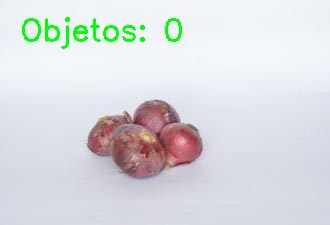
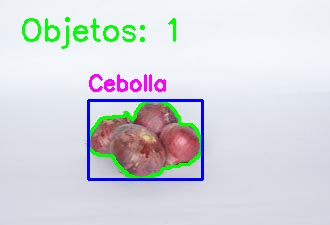
actualizacion3

Changed region(s): [[0.2424, 0.3111, 0.6364, 0.84], [0.4848, 0.0622, 0.5758, 0.1867]]

diff --git a/src/procesamiento/contornos.py b/src/procesamiento/contornos.py
@@ -3,7 +3,9 @@ import numpy as np
 
 
 def detectar_contornos(imagen, umbral):
-
+    """
+    Detecta, caracteriza y clasifica los contornos del umbral sobre la imagen BGR.
+    """
     contornos, _ = cv2.findContours(
         umbral, cv2.RETR_EXTERNAL, cv2.CHAIN_APPROX_SIMPLE
     )
@@ -11,8 +13,9 @@ def detectar_contornos(imagen, umbral):
     imagen_contornos = imagen.copy()
     contador = 0
 
-    # convertir a HSV una sola vez
+    # Convertir espacios de color una sola vez, fuera del loop
     hsv = cv2.cvtColor(imagen, cv2.COLOR_BGR2HSV)
+    rgb = cv2.cvtColor(imagen, cv2.COLOR_BGR2RGB)
 
     for c in contornos:
 
@@ -20,93 +23,100 @@ def detectar_contornos(imagen, umbral):
         if area < 500:
             continue
 
-        # ---------------- geometría ----------------
+        # ── Geometría ──────────────────────────────────────────────────────
         perimetro = cv2.arcLength(c, True)
 
-        circularidad = 0
-        if perimetro != 0:
+        circularidad = 0.0
+        if perimetro > 0:
             circularidad = (4 * np.pi * area) / (perimetro ** 2)
 
         x, y, w, h = cv2.boundingRect(c)
         aspect_ratio = w / h
 
-        # ---------------- máscara del objeto ----------------
+        # ── Máscara del objeto ─────────────────────────────────────────────
         mask = np.zeros(umbral.shape, dtype=np.uint8)
         cv2.drawContours(mask, [c], -1, 255, -1)
 
-        # ---------------- media RGB ----------------
-        rgb = cv2.cvtColor(imagen, cv2.COLOR_BGR2RGB)
+        # ── Media RGB ──────────────────────────────────────────────────────
         pixels_rgb = rgb[mask > 0]
         media_RGB = np.mean(pixels_rgb, axis=0)
 
-        # ---------------- media HSV ----------------
+        # ── Media HSV ──────────────────────────────────────────────────────
         pixels_hsv = hsv[mask > 0]
         media_HSV = np.mean(pixels_hsv, axis=0)
 
-        # =====================================================
-        # ----------- PROCESAMIENTO PARA CLASIFICACIÓN ---------
-        # =====================================================
-
+        # ── Extracción HSV filtrada para clasificación ─────────────────────
         objeto_hsv = hsv[mask > 0]
+        H_raw = objeto_hsv[:, 0]
+        S_raw = objeto_hsv[:, 1]
+        V_raw = objeto_hsv[:, 2]
 
-        H = objeto_hsv[:, 0]
-        S = objeto_hsv[:, 1]
-        V = objeto_hsv[:, 2]
+        # Filtrar reflejos, píxeles muy oscuros y poco saturados
+        mascara_color = (S_raw > 40) & (V_raw < 230) & (V_raw > 30)
+        H = H_raw[mascara_color]
+        S = S_raw[mascara_color]
 
-        # eliminar brillos/blancos
-        mask_color = (S > 40) & (V < 230)
-
-        H = H[mask_color]
-        S = S[mask_color]
-        V = V[mask_color]
-
-        # evitar error si no hay píxeles válidos
         if len(H) == 0:
+            print(f"[AVISO] Contorno sin píxeles válidos (área {area:.0f}), omitido.")
             continue
 
-        # ---------------- métricas ----------------
-        H_prom = np.mean(H)
+        # ── Métricas de clasificación ──────────────────────────────────────
         S_prom = np.mean(S)
+        std_S  = np.std(S)
+        H_prom = np.mean(H)
+        std_H  = np.std(H)
 
-        std_H = np.std(H)
-        std_S = np.std(S)
+        print(f"  H_prom={H_prom:.1f}  S_prom={S_prom:.1f}  "
+              f"std_H={std_H:.1f}  std_S={std_S:.1f}")
 
-        # ---- debug (puedes comentarlo luego) ----
-        print(f"H limpio: {H_prom:.2f}")
-        print(f"S limpio: {S_prom:.2f}")
-        print(f"Std H: {std_H:.2f}")
-        print(f"Std S: {std_S:.2f}")
+        # ── Clasificación ──────────────────────────────────────────────────
+        #
+        # Basado en valores reales observados:
+        #   Tomate:  H_prom < 20 o H_prom > 160  (rojo/naranja en HSV OpenCV)
+        #   Cebolla: H_prom en rango medio        (H=93 en este dataset)
+        #
+        # El canal H es el discriminador principal porque la distancia
+        # entre H=93 (cebolla) y H<20 (tomate) es demasiado grande
+        # para confundirse, independientemente de S o V.
 
-# ---------------- CLASIFICACIÓN FINAL ----------------
+        ES_TOMATE_H   = (H_prom < 20) or (H_prom > 160)
+        ES_TOMATE_S   = S_prom > 50
+        ES_TOMATE_STD = std_S < 60
 
-       # prioridad: detectar tomate primero
-    if S_prom > 90 and std_S < 25:
-        tipo = "Tomate"
-        color_texto = (0, 0, 255)
+        if ES_TOMATE_H and ES_TOMATE_S and ES_TOMATE_STD:
+            tipo = "Tomate"
+            color_texto = (0, 0, 255)       # rojo en BGR
 
-# cebolla: más variación o menor saturación
-    elif std_S > 20 or S_prom < 80:
-        tipo = "Cebolla"
-        color_texto = (255, 0, 255)
+        elif not ES_TOMATE_H:
+            # Tono fuera del rango rojo → no puede ser tomate
+            tipo = "Cebolla"
+            color_texto = (255, 0, 255)     # magenta en BGR
 
-    else:
-        tipo = "Desconocido"
-        color_texto = (0, 255, 255)
+        elif S_prom < 50 or std_S > 45:
+            # Sin tono rojo, baja saturación o muy variable → cebolla blanca/amarilla
+            tipo = "Cebolla"
+            color_texto = (255, 0, 255)     # magenta en BGR
 
-        # ---------------- imprimir ----------------
-        print("\nRESUMEN DE CARACTERIZACIÓN")
-        print(f"Area: {area:.0f} px")
-        print(f"Perimetro: {perimetro:.1f}")
-        print(f"Circularidad: {circularidad:.4f}")
-        print(f"Aspect Ratio: {aspect_ratio:.3f}")
-        print(f"Media RGB: R={media_RGB[0]:.1f} G={media_RGB[1]:.1f} B={media_RGB[2]:.1f}")
-        print(f"Media HSV: H={media_HSV[0]:.1f} S={media_HSV[1]:.1f} V={media_HSV[2]:.1f}")
-        print(f"Clasificación: {tipo}")
+        else:
+            tipo = "Desconocido"
+            color_texto = (0, 255, 255)     # amarillo en BGR
 
-        # ---------------- dibujar ----------------
+        # ── Resumen en consola ─────────────────────────────────────────────
+        print("\n  RESUMEN DE CARACTERIZACIÓN")
+        print(f"  Área:          {area:.0f} px²")
+        print(f"  Perímetro:     {perimetro:.1f}")
+        print(f"  Circularidad:  {circularidad:.4f}")
+        print(f"  Aspect ratio:  {aspect_ratio:.3f}")
+        print(f"  Media RGB:     R={media_RGB[0]:.1f}  "
+              f"G={media_RGB[1]:.1f}  B={media_RGB[2]:.1f}")
+        print(f"  Media HSV:     H={media_HSV[0]:.1f}  "
+              f"S={media_HSV[1]:.1f}  V={media_HSV[2]:.1f}")
+        print(f"  Clasificación: {tipo}")
+        print()
+
+        # ── Dibujar sobre la imagen ────────────────────────────────────────
         cv2.drawContours(imagen_contornos, [c], -1, (0, 255, 0), 2)
         cv2.rectangle(imagen_contornos, (x, y), (x + w, y + h), (255, 0, 0), 2)
-
         cv2.putText(
             imagen_contornos,
             tipo,

diff --git a/src/main.py b/src/main.py
@@ -5,57 +5,54 @@ from procesamiento.ruido import quitar_ruido
 from procesamiento.segmentacion import segmentar
 from procesamiento.contornos import detectar_contornos
 
-# Ruta de la imagen
-ruta_imagen = "dataset/Onion/Oni_040.jpg" 
-#ruta_imagen = "dataset/Tomates/Tre_045.jpg" 
+# ── Ruta de la imagen ───────────────────────────────────────
+ruta_imagen = "dataset/Onion/Oni_040.jpg"
+#ruta_imagen = "dataset/Tomates/Tre_045.jpg"
 
-# Cargar imagen
+# ── Cargar imagen ───────────────────────────────────────────
 imagen = cv2.imread(ruta_imagen)
-
 if imagen is None:
-    print("No se pudo cargar la imagen")
+    print("Error: no se pudo cargar la imagen:", ruta_imagen)
     exit()
 
-#preprocesamiento
+# ── Preprocesamiento ────────────────────────────────────────
 imagen_sin_ruido = quitar_ruido(imagen)
 
-#convertir a escala de grises (FALTABA)
+# ── Segmentación ────────────────────────────────────────────
+# segmentar() recibe BGR directamente; la conversión a gris
+# ocurre internamente para que watershed use la imagen a color.
+umbral = segmentar(imagen_sin_ruido)
+
+# Guardar versión en grises solo para visualización
 gris = cv2.cvtColor(imagen_sin_ruido, cv2.COLOR_BGR2GRAY)
 
-#segmentación
-umbral = segmentar(gris)
-
-#contornos + caracterización
+# ── Contornos + caracterización ─────────────────────────────
 imagen_contornos, contador = detectar_contornos(imagen, umbral)
 
-# Mostrar resultado en consola
 print("Objetos detectados:", contador)
 
-# Texto en imagen
+# ── Texto sobre la imagen resultado ─────────────────────────
 cv2.putText(
     imagen_contornos,
     f"Objetos: {contador}",
-    (20,40),
+    (20, 40),
     cv2.FONT_HERSHEY_SIMPLEX,
     1,
-    (0,255,0),
-    2
+    (0, 255, 0),
+    2,
 )
 
-# Crear carpeta resultados
+# ── Guardar resultados ───────────────────────────────────────
 os.makedirs("resultados", exist_ok=True)
-
-# Guardar resultados
-cv2.imwrite("resultados/sin_ruido.jpg", imagen_sin_ruido)
-cv2.imwrite("resultados/gris.jpg", gris)
+cv2.imwrite("resultados/sin_ruido.jpg",  imagen_sin_ruido)
+cv2.imwrite("resultados/gris.jpg",       gris)
 cv2.imwrite("resultados/segmentada.jpg", umbral)
-cv2.imwrite("resultados/contornos.jpg", imagen_contornos)
+cv2.imwrite("resultados/contornos.jpg",  imagen_contornos)
 
-# Mostrar imágenes
-cv2.imshow("Original", imagen)
-cv2.imshow("Gris", gris)
-cv2.imshow("Segmentada", umbral)
-cv2.imshow("Contornos", imagen_contornos)
-
+# ── Mostrar ──────────────────────────────────────────────────
+cv2.imshow("Original",    imagen)
+cv2.imshow("Gris",        gris)
+cv2.imshow("Segmentada",  umbral)
+cv2.imshow("Contornos",   imagen_contornos)
 cv2.waitKey(0)
 cv2.destroyAllWindows()

diff --git a/src/procesamiento/segmentacion.py b/src/procesamiento/segmentacion.py
@@ -1,49 +1,48 @@
 import cv2
 import numpy as np
 
-def segmentar(gris):
 
-    # 1. Threshold (binarización automática con Otsu)
+def segmentar(imagen_bgr):
+    """
+    Recibe la imagen BGR original (sin ruido).
+    Devuelve la máscara binaria segmentada.
+    """
+    gris = cv2.cvtColor(imagen_bgr, cv2.COLOR_BGR2GRAY)
+
+    # 1. Umbralización automática con Otsu
     _, umbral = cv2.threshold(
         gris, 0, 255,
         cv2.THRESH_BINARY_INV + cv2.THRESH_OTSU
     )
 
-    # 2. Eliminar ruido (apertura: erosión + dilatación)
+    # 2. Apertura: eliminar ruido pequeño
     kernel = np.ones((3, 3), np.uint8)
     opening = cv2.morphologyEx(umbral, cv2.MORPH_OPEN, kernel, iterations=2)
 
-    # Separar objetos pegados (erosión)
+    # 3. Separar objetos pegados (erosión) y reconstruir (dilatación)
     separada = cv2.erode(opening, kernel, iterations=2)
-
-    # Reconstruir tamaño (dilatación)
     separada = cv2.dilate(separada, kernel, iterations=2)
 
-    # 3. Fondo seguro
+    # 4. Fondo seguro
     sure_bg = cv2.dilate(separada, kernel, iterations=3)
 
-    # 4. Objetos seguros (foreground)
+    # 5. Foreground seguro por transformada de distancia
     dist = cv2.distanceTransform(separada, cv2.DIST_L2, 5)
-
-    _, thresh_dist = cv2.threshold(
-        dist, 0.3 * dist.max(), 255, 0
-    )
+    _, thresh_dist = cv2.threshold(dist, 0.3 * dist.max(), 255, 0)
     sure_fg = np.uint8(thresh_dist)
 
-    # 5. Zona desconocida
+    # 6. Zona desconocida
     unknown = cv2.subtract(sure_bg, sure_fg)
 
-    # 6. Etiquetado
+    # 7. Etiquetado + watershed
     _, markers = cv2.connectedComponents(sure_fg)
-
     markers = markers + 1
     markers[unknown == 255] = 0
 
-    # Watershed necesita imagen en color
-    imagen_color = cv2.cvtColor(gris, cv2.COLOR_GRAY2BGR)
-    markers = cv2.watershed(imagen_color, markers)
+    # watershed necesita imagen BGR (no gris convertida)
+    markers = cv2.watershed(imagen_bgr, markers)
 
-    # 7. Crear máscara final
+    # 8. Máscara final
     mascara = np.zeros(gris.shape, dtype=np.uint8)
     mascara[markers > 1] = 255
 
